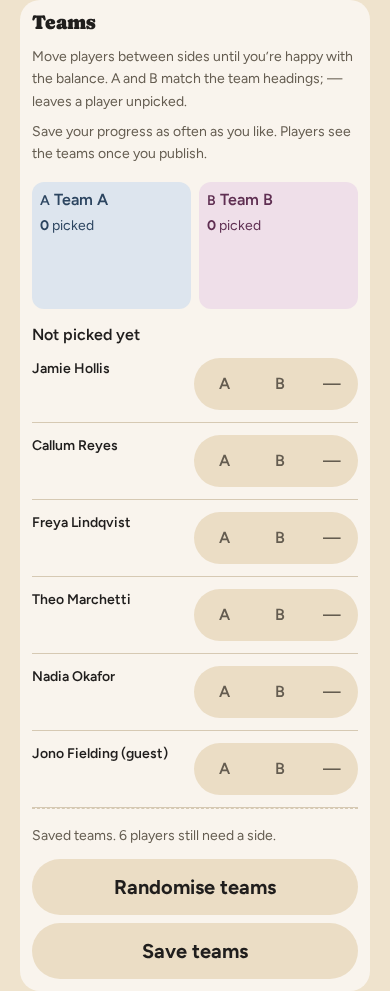
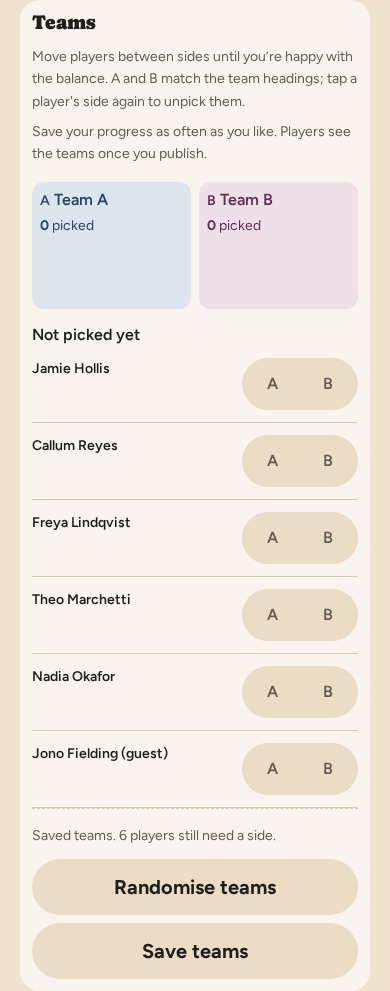
Team picker: unpick with a second press, not a third "—" option
The quiet "—" radio added in M67 overflowed the row on a phone. It is gone;
an unpicked player now has neither side checked.

- Each row posts a hidden empty value before its radios. The route already
  reads "" as "clear this side", and a checked radio later in the body wins
  (parseBody keeps the last value) -- pinned by a new route test.
- A second press on the side a player is on unpicks them, by pointer or by
  Space; the row goes back to the pool and the counts and draft line follow.
  Script only, as agreed: with scripting off a placement can be changed but
  not cleared. Dragging to "Not picked yet" still clears too.
- Inside a half-width side column the name now takes the full width with the
  A/B track beneath it; beside it, names were squeezed to 15px.
- The instructions and the guide say "tap a player's side again to unpick
  them". New browser tests cover the second press and measure every picker
  row at 390px with players on both sides (it fails without the column fix).

Claude-Session: https://claude.ai/code/session_013YNuB51pxJXty2Pimnqbns

diff --git a/test/browser/journeys.spec.ts b/test/browser/journeys.spec.ts
@@ -745,9 +745,9 @@ test("picking with the keyboard keeps focus in the radio group as the row moves"
 /**
  * Dragging a name back off a side.
  *
- * The pool is the third drop target, carrying `data-team=""` — the same value
- * as the "Not picked yet" radio — so undoing a placement is a gesture and not
- * only a radio click. Worth its own test because the pool is the one drop
+ * The pool is the third drop target, carrying `data-team=""` — the value the
+ * row's hidden input posts once neither side is checked — so undoing a
+ * placement is a gesture as well as a second press. Worth its own test because the pool is the one drop
  * target that can be *empty*, and an empty list with no height is a target
  * nobody can hit: this fails if `.team-drop` is ever taken off it.
  */
@@ -763,8 +763,8 @@ test("dragging a name back to the unpicked list clears the side it had", async (
 
   await pickerRow(page, JOINER_NAME).dragTo(page.locator("#team-pool"));
 
-  await expect(sideRadio(page, JOINER_NAME, "Not picked yet")).toBeChecked();
   await expect(sideRadio(page, JOINER_NAME, "Team A")).not.toBeChecked();
+  await expect(sideRadio(page, JOINER_NAME, "Team B")).not.toBeChecked();
   await expect(page.locator('[data-count="a"]')).toHaveText("0");
   await expect(page.locator('[data-count="b"]')).toHaveText("1");
 
@@ -772,7 +772,8 @@ test("dragging a name back to the unpicked list clears the side it had", async (
   // player, which the route reads as "clear this player's side".
   await page.getByRole("button", { name: "Save teams" }).click();
   await page.waitForURL(new RegExp(`${fixturePath}$`));
-  await expect(sideRadio(page, JOINER_NAME, "Not picked yet")).toBeChecked();
+  await expect(sideRadio(page, JOINER_NAME, "Team A")).not.toBeChecked();
+  await expect(sideRadio(page, JOINER_NAME, "Team B")).not.toBeChecked();
   await expect(sideRadio(page, GUEST_NAME, "Team B")).toBeChecked();
 
   expect(await seen.violations()).toEqual([]);
@@ -801,6 +802,51 @@ test("the two identities never share a session", async ({ page, browser }) => {
  * names and left the form alone would save nothing, and a save that posts the
  * random pick is the whole point.
  */
+/**
+ * Unpicking by a second press on the side a player is on (M67). It replaced a
+ * third "no side" radio that overflowed the row on a phone, and it is script:
+ * the browser leaves a checked radio checked when it is pressed again. Both
+ * the pointer and Space must do it, and the clearing must be what the save
+ * stores — the row's hidden empty value, no longer overridden by a radio.
+ */
+test("pressing a player's side again unpicks them, by pointer or by Space", async ({ page, browser }) => {
+  const seen = observe(page);
+  const { fixturePath } = await seedTwoPlayersIn(page, browser, true);
+  await expect(page.locator("#team-columns")).toBeVisible();
+
+  // --- pointer ----------------------------------------------------------------
+  await sideRadio(page, JOINER_NAME, "Team A").click({ force: true });
+  await expect(page.locator('ul[data-team="a"] li[data-player]')).toContainText(JOINER_NAME);
+  await sideRadio(page, JOINER_NAME, "Team A").click({ force: true });
+
+  await expect(sideRadio(page, JOINER_NAME, "Team A")).not.toBeChecked();
+  await expect(sideRadio(page, JOINER_NAME, "Team B")).not.toBeChecked();
+  await expect(page.locator("#team-pool")).toContainText(JOINER_NAME);
+  await expect(page.locator('ul[data-team="a"] li[data-player]')).toHaveCount(0);
+  await expect(page.locator('[data-count="a"]')).toHaveText("0");
+
+  // --- Space -----------------------------------------------------------------
+  const guestOnB = sideRadio(page, GUEST_NAME, "Team B");
+  await guestOnB.focus();
+  await page.keyboard.press("Space");
+  await expect(guestOnB).toBeChecked();
+  await page.keyboard.press("Space");
+  await expect(guestOnB).not.toBeChecked();
+  await expect(page.locator("#team-pool")).toContainText(GUEST_NAME);
+  await expect(page.locator('ul[data-team="b"] li[data-player]')).toHaveCount(0);
+
+  // Put the joiner back on B, save, and the guest's clearing is what is stored.
+  await sideRadio(page, JOINER_NAME, "Team B").click({ force: true });
+  await page.getByRole("button", { name: "Save teams" }).click();
+  await page.waitForURL(new RegExp(`${fixturePath}$`));
+  await expect(sideRadio(page, JOINER_NAME, "Team B")).toBeChecked();
+  await expect(sideRadio(page, GUEST_NAME, "Team A")).not.toBeChecked();
+  await expect(sideRadio(page, GUEST_NAME, "Team B")).not.toBeChecked();
+
+  expect(await seen.violations()).toEqual([]);
+  expect(seen.errors()).toEqual([]);
+});
+
 test("randomise puts everyone on a side, evenly, through the radios the save posts", async ({ page, browser }) => {
   const seen = observe(page);
   const { fixturePath } = await seedTwoPlayersIn(page, browser, true);

diff --git a/test/routes/team-picker.test.ts b/test/routes/team-picker.test.ts
@@ -142,9 +142,13 @@ describe("the team picker on GET /g/:id/f/:fixtureId", () => {
     for (const playerId of [ada, bram]) {
       expect(html).toContain(`<input type="radio" name="${playerId}" value="a"`);
       expect(html).toContain(`<input type="radio" name="${playerId}" value="b"`);
-      // The third choice is what makes a partial pick expressible, and
-      // undoable, without JavaScript.
-      expect(html).toContain(`<input type="radio" name="${playerId}" value=""`);
+      // No third "no side" radio (M67): an unpicked player has neither side
+      // checked, and the hidden empty value before the radios is what the form
+      // posts for them. It must come first, so a checked side overrides it.
+      expect(html).not.toContain(`<input type="radio" name="${playerId}" value=""`);
+      const hidden = html.indexOf(`<input type="hidden" name="${playerId}" value="">`);
+      expect(hidden).toBeGreaterThan(-1);
+      expect(hidden).toBeLessThan(html.indexOf(`<input type="radio" name="${playerId}" value="a"`));
     }
     // The game's own names for the sides, not "Team A"/"Team B".
     expect(html).toContain("Bibs");
@@ -306,11 +310,13 @@ describe("the team picker on GET /g/:id/f/:fixtureId", () => {
 
     // And the pick is still expressible from that reduced page: a radio for
     // every player and every side, plus the Save button they post through.
+    // Taking a player back off a side is a second press, which needs script
+    // (M67, the maintainer's call when the third radio overflowed on a phone).
     for (const playerId of [ada, bram]) {
-      for (const value of ["a", "b", ""]) {
+      for (const value of ["a", "b"]) {
         expect(
           withoutScript,
-          `${playerId} must still be placeable on "${value || "no side"}" with scripting off`,
+          `${playerId} must still be placeable on "${value}" with scripting off`,
         ).toContain(`<input type="radio" name="${playerId}" value="${value}"`);
       }
     }
@@ -337,12 +343,30 @@ describe("POST /g/:id/f/:fixtureId/teams", () => {
     const { cookie, viewerId } = await ownerSession();
     const { gameId, fixtureId, ada, bram } = await seedPickableFixture(viewerId);
 
-    // Exactly what the browser posts when an organiser has placed one player
-    // and left the other on "Not picked yet".
+    // An organiser who has placed one player and left the other unpicked.
     const response = await appPost(`/g/${gameId}/f/${fixtureId}/teams`, { [ada]: "a", [bram]: "" }, cookie);
 
     expect(response.status).toBe(303);
     expect(await teamOf(fixtureId, ada)).toBe("a");
+    expect(await teamOf(fixtureId, bram)).toBeNull();
+  });
+
+  it("lets a checked side override the row's hidden empty value (M67)", async () => {
+    // Exactly the body a browser builds from a picker row: the hidden empty
+    // value first, then the checked radio under the same name. The route must
+    // read the later one, or every placed player would be cleared on save.
+    const { cookie, viewerId } = await ownerSession();
+    const { gameId, fixtureId, ada, bram } = await seedPickableFixture(viewerId);
+
+    const response = await SELF.fetch(`${ORIGIN}/g/${gameId}/f/${fixtureId}/teams`, {
+      method: "POST",
+      headers: { "content-type": "application/x-www-form-urlencoded", origin: ORIGIN, cookie },
+      body: new URLSearchParams([[ada, ""], [ada, "b"], [bram, ""]]),
+      redirect: "manual",
+    });
+
+    expect(response.status).toBe(303);
+    expect(await teamOf(fixtureId, ada)).toBe("b");
     expect(await teamOf(fixtureId, bram)).toBeNull();
   });
 

diff --git a/src/views/team-picker.ts b/src/views/team-picker.ts
@@ -122,21 +122,22 @@ function renderRandomise(): string {
 
 /**
  * One member's row: their name, and a radio group named exactly their player
- * id.
+ * id, with one radio per side.
  *
- * Three choices, not two. The empty-valued "Not picked yet" radio is what
- * makes a partial pick expressible without JavaScript — an organiser who has
- * placed six of fourteen players must be able to save and come back, and
- * with only two radios there would be no way to *undo* a placement once made
- * (a radio group cannot be unset by clicking it again). The route reads `""`
- * as "clear this player's side".
+ * An unpicked player is simply one with neither side checked. The hidden empty
+ * value before the radios is what the form posts for them — the route reads
+ * `""` as "clear this player's side", and a checked radio later in the row
+ * wins over it because the body keeps the last value for a name. Unpicking a
+ * placed player is a second press on their side, which takes script (a radio
+ * cannot be unset by the browser alone); until M67 a third "—" radio did it,
+ * and overflowed the row on a phone.
  */
 function renderRow(member: TeamPickerParams["members"][number], names: Record<TeamId, string>): string {
   const group = escapeHtml(member.playerId);
-  const choice = (value: string, label: string) =>
+  const choice = (value: TeamId, label: string) =>
     `<label aria-label="${escapeHtml(label)}"><input type="radio" name="${group}" value="${escapeHtml(value)}"${
-      (member.team ?? "") === value ? " checked" : ""
-    }><span aria-hidden="true">${value === "" ? "—" : escapeHtml(value.toUpperCase())}</span></label>`;
+      member.team === value ? " checked" : ""
+    }><span aria-hidden="true">${escapeHtml(value.toUpperCase())}</span></label>`;
 
   // `data-player` is what the drag-and-drop script identifies a row by. Not
   // `draggable`: that attribute is set by the script, so a browser that never
@@ -146,9 +147,9 @@ function renderRow(member: TeamPickerParams["members"][number], names: Record<Te
               <legend>${escapeHtml(rowName(member))}</legend>
               ${TEAM_IDS.map((id) => `<span class="row-side row-side-${id} side-${id}"><span class="side-dot" aria-hidden="true"></span>${escapeHtml(names[id])}</span>`).join("")}
               <span class="row-side row-side-none">Not picked yet</span>
+              <input type="hidden" name="${group}" value="">
               <span class="sides">
                 ${TEAM_IDS.map((id) => choice(id, names[id])).join("")}
-                ${choice("", "Not picked yet")}
               </span>
             </fieldset>
           </li>`;
@@ -283,7 +284,7 @@ export function renderTeamPicker(params: TeamPickerParams): string {
 
   return `<section class="team-workspace" aria-labelledby="team-heading">
           <h2 id="team-heading">Teams</h2>
-          <p class="team-note">Move players between sides until you’re happy with the balance. A and B match the team headings; — leaves a player unpicked.</p>
+          <p class="team-note">Move players between sides until you’re happy with the balance. A and B match the team headings; tap a player's side again to unpick them.</p>
           <p class="team-note">${params.correcting
             ? "Saving changes updates the teams on players’ pages and in the game’s history."
             : params.published

diff --git a/src/views/scripts.ts b/src/views/scripts.ts
@@ -402,10 +402,10 @@ export const TEAM_PICKER_JS = `
   if (typeof window.DataTransfer !== "function") return;
 
   // Every drop target carries the value it stands for, including the pool of
-  // players nobody has placed yet (\`data-team=""\`, the "Not picked yet"
-  // radio). One attribute for all three means dragging a name back out of a
-  // side is the same code as dragging it in, rather than a case that has to
-  // be remembered.
+  // players nobody has placed yet (\`data-team=""\`, which no radio carries:
+  // unpicked means neither side checked). One attribute for all three means
+  // dragging a name back out of a side is the same code as dragging it in,
+  // rather than a case that has to be remembered.
   var lists = form.querySelectorAll("ul[data-team]");
   var rows = form.querySelectorAll("li[data-player]");
   if (lists.length === 0 || rows.length === 0) return;
@@ -454,13 +454,20 @@ export const TEAM_PICKER_JS = `
   }
 
   function place(row, team) {
-    var radio = radioFor(row, team);
+    var radio = team === "" ? null : radioFor(row, team);
     var list = listFor(team);
     // A row with no radio for this side, or a side with no column, is left
     // exactly where it is: half a move would put the picture and the form out
     // of step, which is the one thing this block must never do.
-    if (!radio || !list) return;
-    radio.checked = true;
+    if ((team !== "" && !radio) || !list) return;
+    if (radio) {
+      radio.checked = true;
+    } else {
+      var current = row.getElementsByTagName("input");
+      for (var c = 0; c < current.length; c++) {
+        if (current[c].type === "radio") current[c].checked = false;
+      }
+    }
     // \`appendChild\` detaches the row, and detaching blurs whatever inside it
     // held focus. Left alone that makes this block *worse than absent* for
     // anyone picking with a keyboard: Space checks the radio, the row moves,
@@ -553,6 +560,31 @@ export const TEAM_PICKER_JS = `
     if (!input || input.type !== "radio") return;
     var row = input.closest("li[data-player]");
     if (row) place(row, input.value);
+  });
+
+  // A second press on the side a player is already on unpicks them. The
+  // browser leaves a checked radio checked when it is pressed again and fires
+  // no change, so whether it was checked is read before the press lands.
+  var pressedWasChecked = null;
+  form.addEventListener("pointerdown", function (event) {
+    var input = event.target;
+    pressedWasChecked = input && input.type === "radio" && input.checked ? input : null;
+  });
+  form.addEventListener("click", function (event) {
+    var input = event.target;
+    if (!input || input.type !== "radio") return;
+    var was = pressedWasChecked;
+    pressedWasChecked = null;
+    if (was !== input) return;
+    var row = input.closest("li[data-player]");
+    if (row) place(row, "");
+  });
+  form.addEventListener("keydown", function (event) {
+    var input = event.target;
+    if (!input || input.type !== "radio" || event.key !== " " || !input.checked) return;
+    event.preventDefault();
+    var row = input.closest("li[data-player]");
+    if (row) place(row, "");
   });
 
   // Randomise: a Fisher-Yates shuffle of the rows, then alternate sides, so

diff --git a/test/browser/layout.spec.ts b/test/browser/layout.spec.ts
@@ -217,3 +217,38 @@ test("notification settings become cards of channel pills at phone width", async
   // A channel a message never uses has no pill at all on a phone.
   await expect(page.locator("table.notify-matrix td.notify-none").first()).toBeHidden();
 });
+
+/**
+ * The team picker at phone width, with players placed on both sides (M67).
+ * Rows in a side column are half the screen wide; with the A/B track beside
+ * the name, the name got one or two letters per line, and a third "—" option
+ * overflowed the column outright. Measured on every row, in the pool and in
+ * both columns, because the shape of a row depends on where it sits.
+ */
+test("every team picker row fits its column at phone width", async ({ page, browser }) => {
+  await page.setViewportSize({ width: 390, height: 844 });
+  const world = await seedWorld(page, browser, { busy: true });
+  await page.goto(`/g/${world.busyGameId}/f/${world.busyFixtureId}`);
+  await expect(page.locator("#team-columns")).toBeVisible();
+
+  for (let i = 0; i < 4; i += 1) {
+    const row = page.locator("#team-pool li[data-player]").first();
+    if ((await row.count()) === 0) break;
+    await row.getByRole("radio").nth(i % 2).click({ force: true });
+  }
+  await expect(page.locator('ul[data-team="a"] li[data-player]').first()).toBeVisible();
+  await expect(page.locator('ul[data-team="b"] li[data-player]').first()).toBeVisible();
+
+  const problems: string[] = [];
+  const rows = page.locator("li[data-player]");
+  for (let r = 0; r < (await rows.count()); r += 1) {
+    const row = rows.nth(r);
+    const rowBox = (await row.boundingBox())!;
+    const name = (await row.locator("legend").textContent())?.trim() ?? `row ${r + 1}`;
+    const track = (await row.locator(".sides").boundingBox())!;
+    if (track.x + track.width > rowBox.x + rowBox.width + 1) problems.push(`${name}: the A/B track overflows its row`);
+    const legend = (await row.locator("legend").boundingBox())!;
+    if (legend.width < 80) problems.push(`${name}: the name is squeezed to ${Math.round(legend.width)}px`);
+  }
+  expect(problems, problems.join("\n")).toEqual([]);
+});

diff --git a/src/views/styles.ts b/src/views/styles.ts
@@ -728,10 +728,14 @@ export const TEAM_PICKER_CSS = `
     min-width: 0; margin: 0; padding: 0; border: 0;
   }
   .teams legend { float: left; padding: 0; font-weight: 600; overflow-wrap: anywhere; }
+  /* Inside a half-width side column there is no room beside the name, so the
+     name takes the width and the A/B track sits beneath it. */
+  .teams.team-drop fieldset { grid-template-columns: minmax(0, 1fr); }
+  .teams.team-drop .sides { grid-column: 1; grid-row: auto; margin-top: var(--s-1); }
   .teams .row-side { grid-column: 1; display: none; align-items: center; gap: var(--s-0); font-size: var(--t-support); }
   .teams fieldset:has(input[value="a"]:checked) .row-side-a,
   .teams fieldset:has(input[value="b"]:checked) .row-side-b,
-  .teams fieldset:has(input[value=""]:checked) .row-side-none { display: flex; }
+  .teams fieldset:not(:has(input[type="radio"]:checked)) .row-side-none { display: flex; }
   .teams .row-side-a { color: var(--side-a-fg); }
   .teams .row-side-b { color: var(--side-b-fg); }
   .teams .row-side-none { color: var(--warn); }
@@ -755,11 +759,6 @@ export const TEAM_PICKER_CSS = `
     opacity: 0; cursor: pointer;
   }
   .teams .sides label:has(input:checked) { background: var(--fg); color: var(--card-raised); }
-  /* The clear-this-side option stays quiet even when it is the checked one: an
-     unpicked player has nothing selected, and it is the only way to take a
-     player back off a side without script. */
-  .teams .sides label:has(input[value=""]) { min-width: 44px; }
-  .teams .sides label:has(input[value=""]:checked) { background: transparent; color: var(--mut); }
   /* The radio is invisible under its label, so the label shows the ring. */
   .teams .sides label:has(input:focus-visible) { outline: 2px solid var(--accent); outline-offset: 2px; }
   .team-columns { display: none; }

diff --git a/test/browser/guide-shots.ts b/test/browser/guide-shots.ts
@@ -334,7 +334,7 @@ export const SHOTS: Shot[] = [
     route: "/g/:id/f/:fixtureId",
     shows:
       "The team picker below the squad on the same fixture page: the two sides " +
-      "named, and every player who is in with three choices beside their name.",
+      "named, and every player who is in with a choice of the two beside their name.",
     // The same fixture page as `owner-fixture` above, scoped to the picker
     // itself — an unscoped shot here would be a second photograph of a page
     // this chapter already shows, for the same reason `invite`/`invite-qr`

diff --git a/docs/design/design-system.md b/docs/design/design-system.md
@@ -121,7 +121,7 @@ Each lives in a named, exported style block in `src/views/styles.ts` (or `STYLES
 | Capacity bar | `.capacity .track .fill .count` | `FIXTURE_STYLES_CSS` | 6px groove plus "10 of 10 in · 2 waiting"; width from generated `.w-0`…`.w-100` classes |
 | Chips | `.chip-{in,waitlisted,out,pending}`, `.chip-you` | `SQUAD_STYLES_CSS` | The squad as grouped pills: in on `--field`, waiting peach, out and no reply as outlines; yours takes the selected state |
 | Squad rows | `ul.squad > li`, `.row-controls`, `.member-actions` | `FORM_CSS` (wins over `SQUAD_STYLES_CSS`) | The organiser's squad list: name left, controls right |
-| Segmented control | `.segment .seg` (`.on`, `.out`), `.teams .sides` | `FORM_CSS`, `TEAM_PICKER_CSS` | In/Out per member, and A/B per player on the picker: a `--field` pill track of 44px segments; the pressed one takes the selected state. The picker's "—" (clear) never fills |
+| Segmented control | `.segment .seg` (`.on`, `.out`), `.teams .sides` | `FORM_CSS`, `TEAM_PICKER_CSS` | In/Out per member, and A/B per player on the picker: a `--field` pill track of 44px segments; the pressed one takes the selected state. A second press on the picker's chosen side unpicks the player (script) |
 | Fixture card | `.fixture-list .fixture-card` | `DASHBOARD_STYLES_CSS` | One upcoming or past fixture on the dashboard, account and past-fixtures pages |
 | Form field | `.field` (+ `.error`, `.field-invalid`), `.row`, `.actions` | `FORM_CSS` | Label above input; `--field` ground, 1px line, 0.75rem radius |
 | Switch row | `.switch-row` + `.hint` | `FORM_CSS` | A checkbox with a label and a hint beneath, 52px |

diff --git a/docs/guide/05-running-your-squad.md b/docs/guide/05-running-your-squad.md
@@ -270,6 +270,8 @@ rather drag, you can: the two sides are the columns above the list, and on a
 phone or computer that allows it you can drag a name straight into one.
 Dragging ticks the same button you would have tapped, so it's the same pick
 either way, and on a device that won't drag, tapping is all there ever was.
+To take someone back off a side, tap the side they're on again, or drag them
+back to **Not picked yet**.
 
 If you'd rather not pick at all, **Randomise teams** deals everyone who's in
 onto the two sides at random, as evenly as the numbers allow. It only sets the
